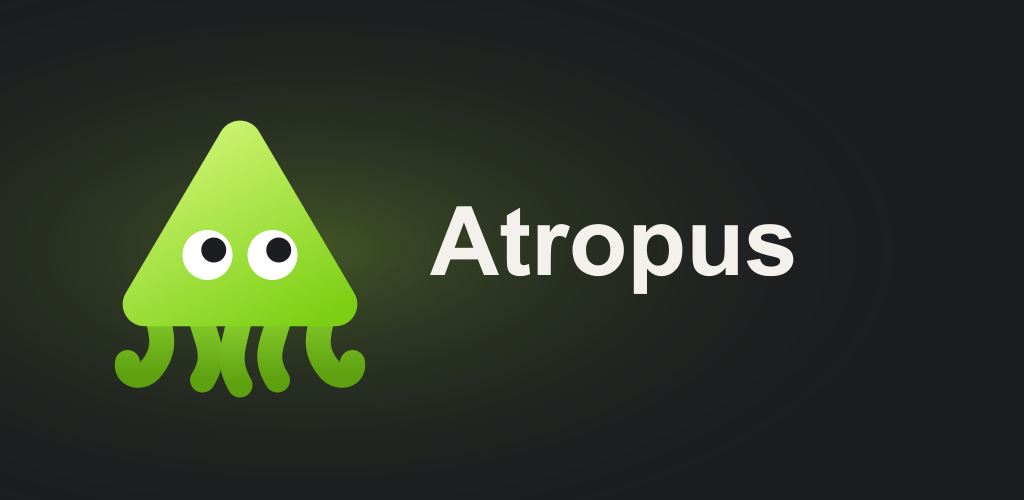
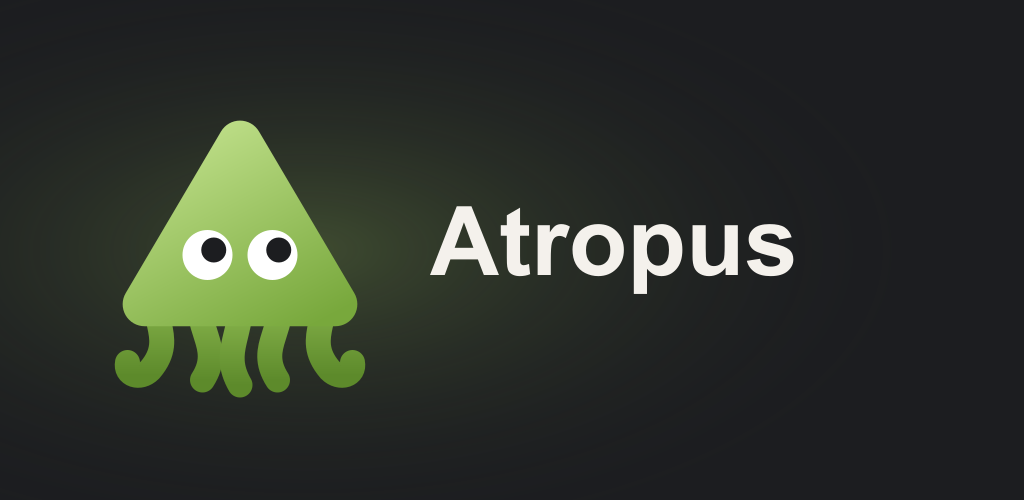
Soften lime accent, fix destructive and popover buttons, add security headers and Firebase auth proxy
- Soften accent to #97c45a and adjust logo colours to meet WCAG AA contrast
- Two-step ConfirmAction for reset and delete, with new button variants
- Generic API error responses from /api/progress
- Security headers in next.config.ts
- /__/auth rewrite so Firebase auth works on a custom auth domain
- grpc-js override in package.json for an audit advisory
- TWA docs updated for the new store assets

Changed region(s): [[0.0938, 0.24, 0.375, 0.81]]

diff --git a/components/site/ProfileView.tsx b/components/site/ProfileView.tsx
@@ -21,9 +21,7 @@ export function ProfileView({ modules }: { modules: ModuleInfo[] }) {
   const { t } = useApp();
   const p = useProgress();
   const { user, deleteAccount } = useAuth();
-  // Reset is guest-only: a signed-in account's progress lives on the server.
-  const [confirm, setConfirm] = useState(false);
-  const [deleteState, setDeleteState] = useState<"idle" | "confirm" | "deleting" | "failed">("idle");
+  // Reset is guest-only: a signed-in account's progress lives on the server; signed-in users get account deletion instead.
   const lv = level(p.xp);
   const lessonsDone = Object.keys(p.lessons).length;
   const quizzesOk = Object.values(p.quizzes).filter(Boolean).length;
@@ -116,46 +114,94 @@ export function ProfileView({ modules }: { modules: ModuleInfo[] }) {
         </ul>
       </MotionConfig>
 
-      {!user ? <p className="mt-10 text-sm text-muted">{t.profile.guestNote}</p> : null}
       {!user ? (
-        <button
-          type="button"
-          className={cn(btn.base, confirm ? "bg-danger text-bg" : btn.subtle, "mt-3 px-4")}
-          onClick={() => {
-            if (confirm) {
+        <div className="mt-10">
+          <p className="text-sm text-muted">{t.profile.guestNote}</p>
+          <ConfirmAction
+            label={t.profile.reset}
+            warning={t.profile.resetConfirm}
+            confirmLabel={t.profile.resetYes}
+            cancelLabel={t.profile.cancel}
+            onConfirm={async () => {
               progress.reset();
-              setConfirm(false);
-            } else setConfirm(true);
-          }}
-          onBlur={() => setConfirm(false)}
-        >
-          {confirm ? t.profile.resetConfirm : t.profile.reset}
-        </button>
-      ) : null}
-
-      {user ? (
+              return true;
+            }}
+          />
+        </div>
+      ) : (
         <div className="mt-12 border-t border-line/60 pt-6">
           <p className="text-sm text-muted">{t.profile.deleteNote}</p>
-          <button
-            type="button"
-            disabled={deleteState === "deleting"}
-            className={cn(btn.base, deleteState === "confirm" ? "bg-danger text-bg" : btn.subtle, "mt-3 px-4")}
-            onClick={async () => {
-              if (deleteState !== "confirm") return setDeleteState("confirm");
-              setDeleteState("deleting");
-              setDeleteState((await deleteAccount()) ? "idle" : "failed");
-            }}
-            onBlur={() => setDeleteState(s => (s === "confirm" ? "idle" : s))}
-          >
-            {deleteState === "confirm" ? t.profile.deleteConfirm : deleteState === "deleting" ? t.profile.deleting : t.profile.deleteAccount}
-          </button>
-          {deleteState === "failed" ? (
-            <p role="alert" className="mt-2 text-sm text-danger">
-              {t.profile.deleteFailed}
-            </p>
-          ) : null}
+          <ConfirmAction
+            label={t.profile.deleteAccount}
+            warning={t.profile.deleteConfirm}
+            confirmLabel={t.profile.deleteYes}
+            busyLabel={t.profile.deleting}
+            cancelLabel={t.profile.cancel}
+            failedText={t.profile.deleteFailed}
+            onConfirm={deleteAccount}
+          />
         </div>
-      ) : null}
+      )}
     </>
+  );
+}
+
+/** Destructive action in two explicit steps: the button, then a warning with "confirm" and "cancel". */
+function ConfirmAction({
+  label,
+  warning,
+  confirmLabel,
+  cancelLabel,
+  busyLabel,
+  failedText,
+  onConfirm,
+}: {
+  label: string;
+  warning: string;
+  confirmLabel: string;
+  cancelLabel: string;
+  busyLabel?: string;
+  failedText?: string;
+  onConfirm: () => Promise<boolean>;
+}) {
+  const [state, setState] = useState<"idle" | "confirm" | "busy" | "failed">("idle");
+
+  if (state === "idle" || state === "failed") {
+    return (
+      <>
+        <button type="button" className={cn(btn.base, btn.danger, "mt-3 px-4")} onClick={() => setState("confirm")}>
+          {label}
+        </button>
+        {state === "failed" && failedText ? (
+          <p role="alert" className="mt-2 text-sm text-danger">
+            {failedText}
+          </p>
+        ) : null}
+      </>
+    );
+  }
+
+  return (
+    <div className="mt-3 rounded-2xl border border-danger/40 bg-danger-soft p-4">
+      <p role="alert" className="text-sm font-semibold text-danger">
+        {warning}
+      </p>
+      <div className="mt-3 flex flex-wrap gap-2">
+        <button
+          type="button"
+          disabled={state === "busy"}
+          className={cn(btn.base, btn.dangerSolid, "px-4")}
+          onClick={async () => {
+            setState("busy");
+            setState((await onConfirm()) ? "idle" : "failed");
+          }}
+        >
+          {state === "busy" && busyLabel ? busyLabel : confirmLabel}
+        </button>
+        <button type="button" disabled={state === "busy"} className={cn(btn.base, btn.secondary, "px-4")} onClick={() => setState("idle")}>
+          {cancelLabel}
+        </button>
+      </div>
+    </div>
   );
 }

diff --git a/next.config.ts b/next.config.ts
@@ -1,6 +1,21 @@
 import type { NextConfig } from "next";
 import createMDX from "@next/mdx";
 
+const firebaseProject = process.env.NEXT_PUBLIC_FIREBASE_PROJECT_ID || "antropus-52cbe";
+
+/**
+ * Security headers for every response. No CSP on purpose: Next's inline scripts would need nonces (dynamic rendering for
+ * every page) and Google sign-in needs frames and popups from Firebase. COOP is left at the default for the same reason.
+ */
+const securityHeaders = [
+  { key: "Strict-Transport-Security", value: "max-age=63072000; includeSubDomains" },
+  { key: "X-Content-Type-Options", value: "nosniff" },
+  // SAMEORIGIN, not DENY: Firebase Auth embeds /__/auth/iframe from our own domain.
+  { key: "X-Frame-Options", value: "SAMEORIGIN" },
+  { key: "Referrer-Policy", value: "strict-origin-when-cross-origin" },
+  { key: "Permissions-Policy", value: "camera=(), microphone=(), geolocation=(), payment=(), usb=(), interest-cohort=()" },
+];
+
 const nextConfig: NextConfig = {
   cacheComponents: true,
   partialPrefetching: true,
@@ -16,9 +31,19 @@ const nextConfig: NextConfig = {
   async redirects() {
     return [{ source: "/", destination: "/uk", permanent: false }];
   },
+  async headers() {
+    return [{ source: "/:path*", headers: securityHeaders }];
+  },
   async rewrites() {
-    // Android app (TWA) verification; see app/api/assetlinks/route.ts.
-    return [{ source: "/.well-known/assetlinks.json", destination: "/api/assetlinks" }];
+    return [
+      // Android app (TWA) verification; see app/api/assetlinks/route.ts.
+      { source: "/.well-known/assetlinks.json", destination: "/api/assetlinks" },
+      // Firebase Auth helper served from our own domain. With NEXT_PUBLIC_FIREBASE_AUTH_DOMAIN set to the production
+      // domain, the Google sign-in window shows that domain instead of <project>.firebaseapp.com, and sign-in keeps
+      // working in browsers that block third-party storage (Chrome, Safari, the Android app). See docs/store/android-twa.md.
+      { source: "/__/auth/:path*", destination: `https://${firebaseProject}.firebaseapp.com/__/auth/:path*` },
+      { source: "/__/firebase/:path*", destination: `https://${firebaseProject}.firebaseapp.com/__/firebase/:path*` },
+    ];
   },
 };
 

diff --git a/app/api/progress/route.ts b/app/api/progress/route.ts
@@ -41,7 +41,7 @@ export async function POST(request: Request) {
   const admin = getAdmin();
   if (!admin.ok) {
     console.error("[api/progress] Admin SDK unavailable:", admin.reason);
-    return Response.json({ error: "Progress sync is not configured", reason: admin.reason }, { status: 503 });
+    return Response.json({ error: "Progress sync is not configured" }, { status: 503 });
   }
 
   const token = request.headers.get("authorization")?.match(/^Bearer (.+)$/)?.[1];
@@ -57,7 +57,7 @@ export async function POST(request: Request) {
     // Log only the reason code (e.g. auth/argument-error for a project mismatch), never the token.
     const reason = (e as { code?: string }).code ?? (e as Error).message;
     console.warn("[api/progress] ID token rejected:", reason);
-    return Response.json({ error: "Unauthorized", reason }, { status: 401 });
+    return Response.json({ error: "Unauthorized" }, { status: 401 });
   }
 
   let action: ProgressAction | null = null;
@@ -94,10 +94,9 @@ export async function POST(request: Request) {
       return next;
     });
   } catch (e) {
-    // Firestore errors (e.g. database not created, permission) carry no secrets.
-    const reason = (e as Error).message;
-    console.error("[api/progress] Firestore write failed:", reason);
-    return Response.json({ error: "Progress write failed", reason }, { status: 500 });
+    // Details go to the server log only; the client gets a generic error.
+    console.error("[api/progress] Firestore write failed:", (e as Error).message);
+    return Response.json({ error: "Progress write failed" }, { status: 500 });
   }
 
   return Response.json({ state: stored });

diff --git a/messages/uk.ts b/messages/uk.ts
@@ -108,11 +108,14 @@ export const uk = {
     tasks: "Завдань виконано",
     streak: "Днів поспіль",
     reset: "Скинути прогрес",
-    resetConfirm: "Точно скинути? Натисни ще раз",
+    resetConfirm: "Увесь прогрес у цьому браузері буде скинуто. Скасувати це не можна.",
+    resetYes: "Так, скинути",
+    cancel: "Скасувати",
     guestNote: "Без входу прогрес зберігається лише в цьому браузері.",
     badges: "Нагороди",
     deleteAccount: "Видалити акаунт",
-    deleteConfirm: "Акаунт і весь прогрес буде видалено назавжди. Натисни ще раз",
+    deleteConfirm: "Акаунт і весь прогрес буде видалено назавжди. Відновити їх не вийде.",
+    deleteYes: "Так, видалити назавжди",
     deleting: "Видаляємо…",
     deleteFailed: "Не вдалося видалити акаунт. Спробуй ще раз або напиши нам",
     deleteNote: "Видалення прибирає акаунт Atropus і збережений прогрес з наших серверів. Сам Google-акаунт не змінюється.",

diff --git a/lib/cn.ts b/lib/cn.ts
@@ -6,7 +6,14 @@ export const cn = (...inputs: ClassValue[]) => clsx(inputs);
 export const btn = {
   base: "inline-flex items-center justify-center gap-2 rounded-2xl font-semibold transition active:scale-[0.98] disabled:opacity-50 disabled:pointer-events-none min-h-12 px-5 text-base",
   primary:
-    "bg-accent text-on-accent shadow-[0_8px_24px_-8px_rgb(163_230_53/0.6)] hover:bg-accent-strong",
-  ghost: "bg-surface text-fg shadow-raised hover:bg-surface-2",
+    "bg-accent text-on-accent shadow-[0_8px_24px_-8px_rgb(151_196_90/0.6)] hover:bg-accent-strong",
+  ghost: "bg-surface text-fg shadow-raised hover:bg-surface-3",
   subtle: "bg-transparent text-muted hover:text-fg hover:bg-surface-2",
+  /** Outlined; readable on any surface, including popovers (surface-2). */
+  secondary: "border border-line bg-transparent text-fg hover:border-muted/60 hover:bg-surface-3",
+  /** Destructive action, first step. */
+  danger: "border border-danger/50 bg-transparent text-danger hover:border-danger hover:bg-danger-soft",
+  /** Destructive action, confirm step. */
+  dangerSolid: "border border-danger bg-danger text-bg hover:bg-danger/85",
 };
+// cn() does not merge Tailwind classes: pick one variant per button instead of overriding a variant's colours.

diff --git a/app/[locale]/page.tsx b/app/[locale]/page.tsx
@@ -21,12 +21,12 @@ export default async function HomePage({ params }: PageProps<"/[locale]">) {
           className="pointer-events-none absolute inset-x-0 -top-10 -z-10 h-[28rem]"
           style={{
             background:
-              "repeating-conic-gradient(from 0deg at 50% 38%, rgb(255 255 255 / 0.025) 0deg 6deg, transparent 6deg 14deg), radial-gradient(50% 50% at 50% 38%, rgb(163 230 53 / 0.18), transparent 70%)",
+              "repeating-conic-gradient(from 0deg at 50% 38%, rgb(255 255 255 / 0.025) 0deg 6deg, transparent 6deg 14deg), radial-gradient(50% 50% at 50% 38%, rgb(151 196 90 / 0.18), transparent 70%)",
             maskImage: "radial-gradient(60% 60% at 50% 40%, #000 30%, transparent 75%)",
           }}
           aria-hidden="true"
         />
-        <OctoMark size={150} id="octo-hero" animated className="drop-shadow-[0_18px_30px_rgb(163_230_53/0.35)]" />
+        <OctoMark size={150} id="octo-hero" animated className="drop-shadow-[0_18px_30px_rgb(151_196_90/0.35)]" />
         <p className="mt-6 text-sm font-bold uppercase tracking-[0.2em] text-accent">{t.home.heroKicker}</p>
         <h1 className="mt-3 max-w-3xl">
           {t.home.heroTitle}{" "}

diff --git a/app/globals.css b/app/globals.css
@@ -14,9 +14,9 @@
   --border: #3a3e44;
   --text: #f6f5f3;
   --muted: #a8abb2;
-  --accent: #518513;
-  --accent-strong: #518513;
-  --accent-soft: rgb(81 133 19 / 0.14);
+  --accent: #97c45a;
+  --accent-strong: #86b34a;
+  --accent-soft: rgb(151 196 90 / 0.14);
   --on-accent: #13200a;
   --success: #34d399;
   --success-soft: rgb(52 211 153 / 0.12);
@@ -117,7 +117,7 @@ h3 {
 }
 
 @utility glow {
-  background: radial-gradient(60% 60% at 50% 0%, rgb(81 133 19 / 0.16), transparent 70%);
+  background: radial-gradient(60% 60% at 50% 0%, rgb(151 196 90 / 0.16), transparent 70%);
 }
 
 @layer components {
@@ -275,10 +275,10 @@ h3 {
 @keyframes badgeGlow {
   0%,
   100% {
-    box-shadow: 0 8px 24px -8px rgb(81 133 19 / 0.7);
+    box-shadow: 0 8px 24px -8px rgb(151 196 90 / 0.7);
   }
   50% {
-    box-shadow: 0 10px 30px -4px rgb(81 133 19 / 0.95);
+    box-shadow: 0 10px 30px -4px rgb(151 196 90 / 0.95);
   }
 }
 

diff --git a/components/ui/OctoMark.tsx b/components/ui/OctoMark.tsx
@@ -28,12 +28,12 @@ export function OctoMark({
     >
       <defs>
         <linearGradient id={`${id}-head`} x1="0.2" y1="0" x2="0.8" y2="1">
-          <stop offset="0" stopColor="#d4f77a" />
-          <stop offset="1" stopColor="#7ccf14" />
+          <stop offset="0" stopColor="#c4e38f" />
+          <stop offset="1" stopColor="#78a83c" />
         </linearGradient>
         <linearGradient id={`${id}-arm`} x1="0" y1="0" x2="0" y2="1">
-          <stop offset="0" stopColor="#9be33a" />
-          <stop offset="1" stopColor="#5ea010" />
+          <stop offset="0" stopColor="#93bf55" />
+          <stop offset="1" stopColor="#5d8a2b" />
         </linearGradient>
       </defs>
       {/* Tentacles (behind the head) */}

diff --git a/components/learn/Diagrams.tsx b/components/learn/Diagrams.tsx
@@ -186,8 +186,8 @@ export function Cycle({ title, nodes, center, caption }: { title?: string; nodes
             <path d="M1 1 L8 5 L1 9" className="fill-none stroke-accent" strokeWidth="2" strokeLinecap="round" strokeLinejoin="round" />
           </marker>
           <radialGradient id="cycle-glow">
-            <stop offset="0" stopColor="#a3e635" stopOpacity="0.18" />
-            <stop offset="1" stopColor="#a3e635" stopOpacity="0" />
+            <stop offset="0" stopColor="#97c45a" stopOpacity="0.18" />
+            <stop offset="1" stopColor="#97c45a" stopOpacity="0" />
           </radialGradient>
         </defs>
         <circle cx={C} cy={C} r={R - 40} fill="url(#cycle-glow)" />

diff --git a/components/site/XpToast.tsx b/components/site/XpToast.tsx
@@ -37,7 +37,7 @@ export function XpToast() {
             initial={{ opacity: 0, y: -12, scale: 0.9 }}
             animate={{ opacity: 1, y: 0, scale: 1 }}
             exit={{ opacity: 0, y: -8 }}
-            className="flex items-center gap-2 rounded-full bg-accent px-4 py-2 font-display text-sm font-bold text-on-accent shadow-[0_10px_30px_-10px_rgb(163_230_53/0.8)]"
+            className="flex items-center gap-2 rounded-full bg-accent px-4 py-2 font-display text-sm font-bold text-on-accent shadow-[0_10px_30px_-10px_rgb(151_196_90/0.8)]"
           >
             <BoltIcon size={16} />+{t.amount} XP
           </motion.div>

diff --git a/components/site/WaterBackground.tsx b/components/site/WaterBackground.tsx
@@ -22,7 +22,7 @@ interface Wave {
 const WAVES: Wave[] = [
   { level: 0.7, amp: 14, len: 520, speed: 0.18, fill: "rgb(70 120 170 / 0.05)" },
   { level: 0.76, amp: 11, len: 380, speed: -0.26, fill: "rgb(60 110 160 / 0.06)", line: "rgb(140 190 230 / 0.12)" },
-  { level: 0.82, amp: 9, len: 300, speed: 0.34, fill: "rgb(40 80 120 / 0.1)", line: "rgb(163 230 53 / 0.25)" },
+  { level: 0.82, amp: 9, len: 300, speed: 0.34, fill: "rgb(40 80 120 / 0.1)", line: "rgb(151 196 90 / 0.25)" },
 ];
 
 const FRAME_MS = 1000 / 30;

diff --git a/components/site/AuthButton.tsx b/components/site/AuthButton.tsx
@@ -76,7 +76,7 @@ export function AuthButton() {
                 {t.nav.profile}
               </Link>
             </Popover.Close>
-            <button type="button" onClick={signOutUser} className={cn(btn.base, btn.subtle, "min-h-10 text-sm")}>
+            <button type="button" onClick={signOutUser} className={cn(btn.base, btn.secondary, "min-h-10 text-sm")}>
               {t.auth.signOut}
             </button>
           </div>
